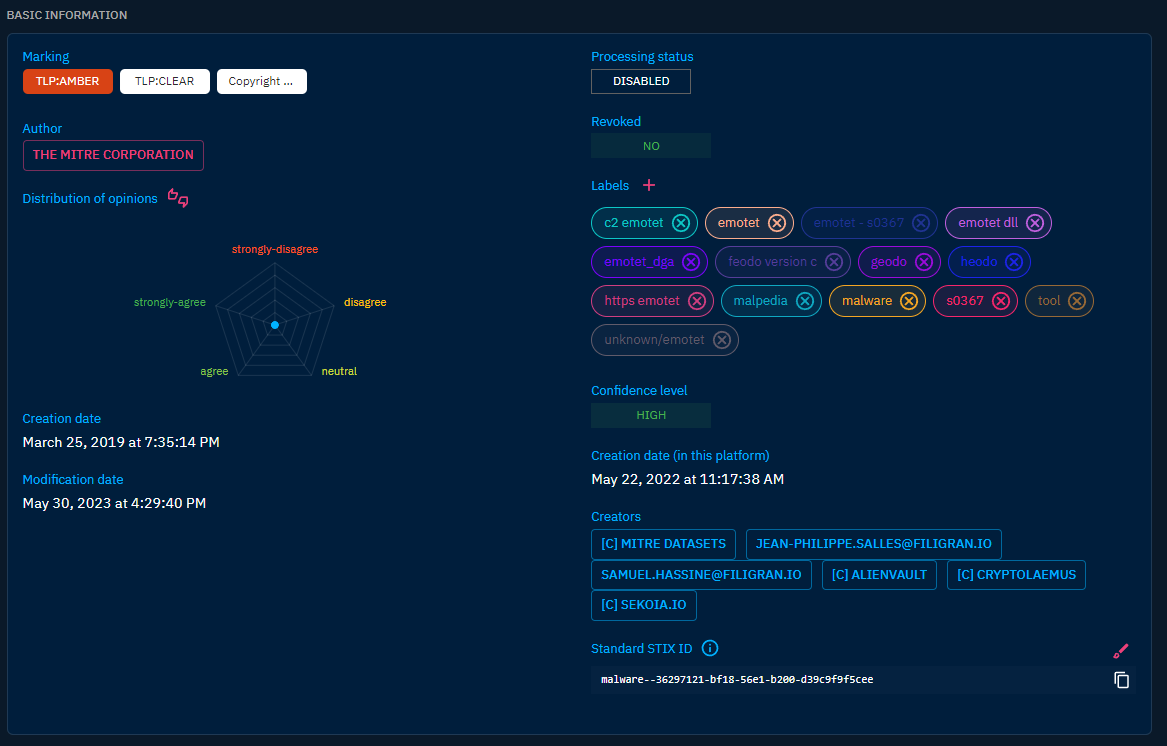
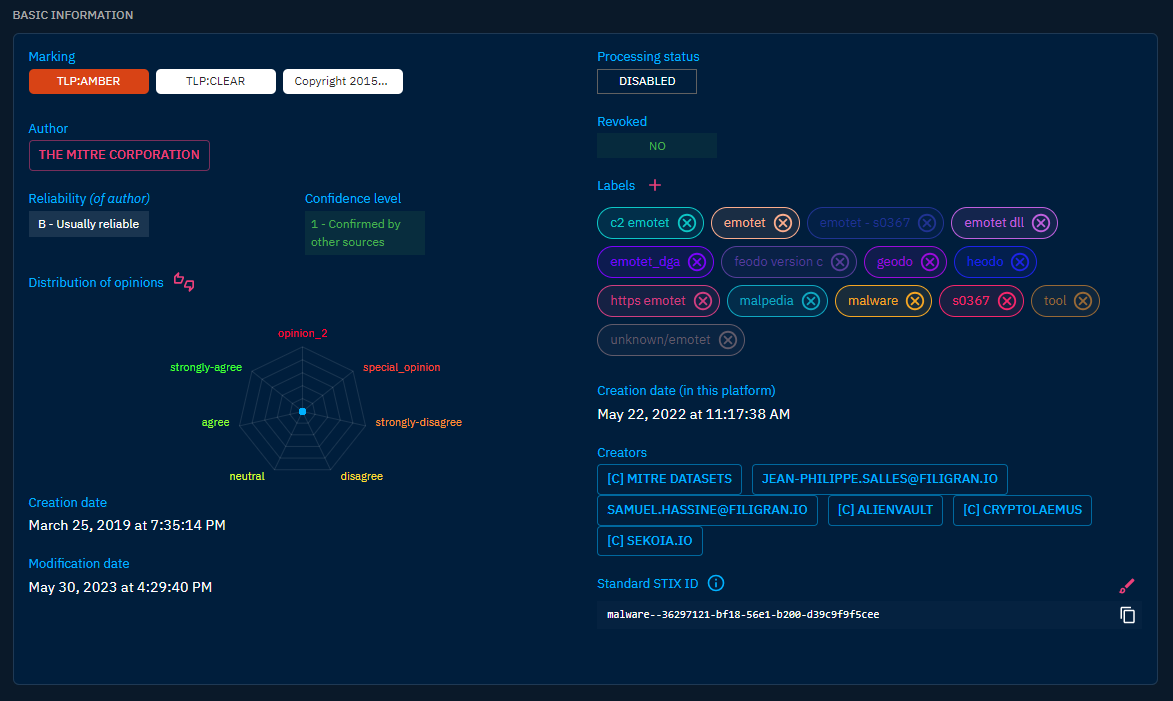
[docs] Add documentation on reliability and confidence scale configuration (#37

diff --git a/docs/usage/reliability-confidence.md b/docs/usage/reliability-confidence.md
@@ -1,0 +1,122 @@
+# Reliability and Confidence
+
+## Generalities
+In (Cyber) Threat Intelligence, evaluation of information sources and of information quality is one of the most important aspect of the work. It is of the utter most importance to assess situations by taking into account reliability of the sources and credibility of the information.
+
+This concept is foundational in OpenCTI, and have real impact on:
+
+* the data [deduplication process](deduplication.md)
+* the data stream filtering for ingestion and sharing
+
+### What is the Reliability of a source?
+
+Reliability of a source of information is a measurement of the trust that the analyst can have about the source, based on the technical capabilities or history of the source. Is the source a reliable partner with long sharing history? A competitor? Unknown?
+
+Reliability of sources are often stated at organizational level, as it requires an overview of the whole history with it. 
+
+In the Intelligence field, Reliability is often notated with the [NATO Admiralty code](https://en.wikipedia.org/wiki/Admiralty_code).
+
+### What is Confidence of an information?
+
+Reliability of a source is important but even a trusted source can be wrong. Information in itself has a credibility, based on what is known about the subject and the level of corroboration by other sources.
+
+Credibility is often stated at the analyst team level, expert of the subject, able to judge the information with its context.
+
+In the Intelligence field, Confidence is often notated with the [NATO Admiralty code](https://en.wikipedia.org/wiki/Admiralty_code).
+
+!!! info "Why Confidence instead of Credibility?"
+
+    Using both Reliability and Credibility is an advanced use case for most of CTI teams. It requires a mature organization and a well staffed team. For most of internal CTI team, a simple confidence level is enough to forge assessment, in particular for teams that concentrate on technical CTI. 
+
+    Thus in OpenCTI, we have made the choice to fuse the notion of Credibility with the Confidence level that is commonly used by the majority of users. They have now the liberty to push forward their practice and use both Confidence and Reliability in their daily assessments.
+
+
+## Reliability open vocabulary
+
+Reliability value can be set for every Entity in the platform that can be Author of Knowledge:
+
+* `Organizations`
+* `Individuals`
+* `Systems`
+* and also `Reports`
+
+Reliability on `Reports` allows you to specify the reliability associated to the original author of the report if you received it through a provider.
+
+For all Knowledge in the platform, the reliability of the source of the Knowledge (author) is displayed in the Overview. This way, you can always forge your assessment of the provided Knowledge regarding the reliability of the author.
+
+![Entity reliability and confidence](./assets/entity-reliability-confidence.png)
+
+You can also now filter entities by the reliability of its author.
+
+!!! tip "Tip"
+
+    This way, you may choose to feed your work with only Knowledge provided by reliable sources.
+
+Reliability is an open vocabulary that can be customized in Settings -> Taxonomies -> Vocabularies : reliability_ov. 
+
+!!! info
+    
+    The setting by default is the Reliability scale from NATO Admiralty code. But you can define whatever best fit your organization.
+
+![Settings reliability](./assets/settings-reliability_ov.png)
+
+
+## Confidence scale
+
+Confidence level can be set for:
+
+* Analyses: `Report`, `Grouping`, `Malware analysis`, `Notes`
+* Cases: `Incident Response`, `Request for Information`, `Request for Takedown`, `Feedback`
+* Events: `Incident`, `Sighting`, `Observed data`
+* Observations: `Indicator`, `Infrastructure`
+* Threats: `Threat actor (Group)`, `Threat actor (Individual)`, `Intrusion Set`, `Campaign`
+* Arsenal: `Malware`, `Channel`, `Tool`, `Vulnerability`
+
+For all of these entities, the Confidence level is displayed in the Overview, along with the Reliability. This way, you can rapidly assess the Knowledge with the Confidence level representing the credibility/quality of the information.
+
+### Confidence scale customization
+
+Confidence level is a numerical value between 0 and 100. But Multiple "Ticks" can be defined and labelled to provide a meaningful scale.
+
+Confidence level can be customized for each entity type in Settings > Customization > Entity type.
+
+![Confidence level customization](assets/confidence-level-customization.png)
+
+As such customization can be cumbersome, three confidence level templates are provided in OpenCTI:
+
+* Admiralty: corresponding to the [Admiralty code's credibility scale](https://en.wikipedia.org/wiki/Admiralty_code)
+* Objective: corresponding to a full objective scale, aiming to leave any subjectivity behind. With this scale, an information confidence is:
+    * "Cannot be judged": there is no data regarding the credibility of the information
+    * "Told": the information is known because it has been told to the source. The source doesn't verify it by any means.
+    * "Induced": the information is the result of an analysis work and is based on other similar information assumed to be true.
+    * "Deduced": the information is the result of an analysis work, and is a logical conclusion of other information assumed to be true.
+    * "Witnessed": the source have observed itself the described situation or object.
+* standard: the historic confidence level scale in OpenCTI defining a Low, Med and High level of confidence.
+
+It is always possible to modify an existing template to define a custom scale adapted to your context.
+
+!!! tip "Tip"
+
+    If you use the Admiralty code setting for both reliability and Confidence, you will find yourself with the equivalent of NATO confidence notation in the Overview of your different entities (A1, B2, C3, etc.)
+
+
+## Usage in OpenCTI
+
+### Example with the admiralty code template
+
+Your organization have received a report from a CTI provider. At your organization level, this provider is considered as reliable most of the time and its reliability level has been set to "B - Usually Reliable" (your organization uses the Admiralty code).
+
+This report concerns ransomware threat landscape and have been analysed by your CTI analyst specialized in cybercrime. This analyst has granted a confidence level of "2 - Probably True" to the information. 
+
+As a technical analyst, through the cumulated reliability and Confidence notations, you now know that the technical elements of this report are probably worth consideration.
+
+![Example with the admiralty code template](assets/example-admiralty-code.png)
+
+### Example with the Objective template
+
+As a CTI analyst in a governmental CSIRT, you build up Knowledge that will be shared within the platform to beneficiaries. Your CSIRT is considered as a reliable source by your beneficiaries, even if you play a role of a proxy with other sources, but your beneficiaries need some insights about how the Knowledge has been built/gathered. 
+
+For that, you use the "Objective" confidence scale in your platform to provide beneficiaries with that. When the Knowledge is the work of the investigation of your CSIRT, either from incident response or attack infrastructure investigation, you set the confidence level to "Witnessed", "Deduced" or "Induced" (depending on if you observed directly the data, or inferred it during your research). When the information has not been verified by the CSIRT but has value to be shared with beneficiaries, you can use the "Told" level to make it clear to them that the information is probably valuable but has not been verified.
+
+![Example with the Objective template](assets/example-objective-scale.png)
+

diff --git a/docs/administration/entities.md b/docs/administration/entities.md
@@ -37,8 +37,16 @@ Then, a workflow can be defined by ordering a sequence of status template.
 ## Attributes
 
 In an Entity, each attribute offers some customization options :
+
 - Become mandatory if not already defined as such in the stix standard
 - Have a default value to facilitate the creation of an entity via the creation forms
 - Define the different thresholds and corresponding label for scalable attribute
 
 ![Mandatory attributes and default values](./assets/mandatory_and_default_attributes.png)
+
+### Confidence scale configuration
+
+Confidence scale can be customized for each entity type by selecting another scale template or by editing directly the scale values.
+Once you have customized your scale, click on "Update" to save your configuration.
+
+![Mandatory attributes and default values](./assets/confidence_scale_configuration.png)
